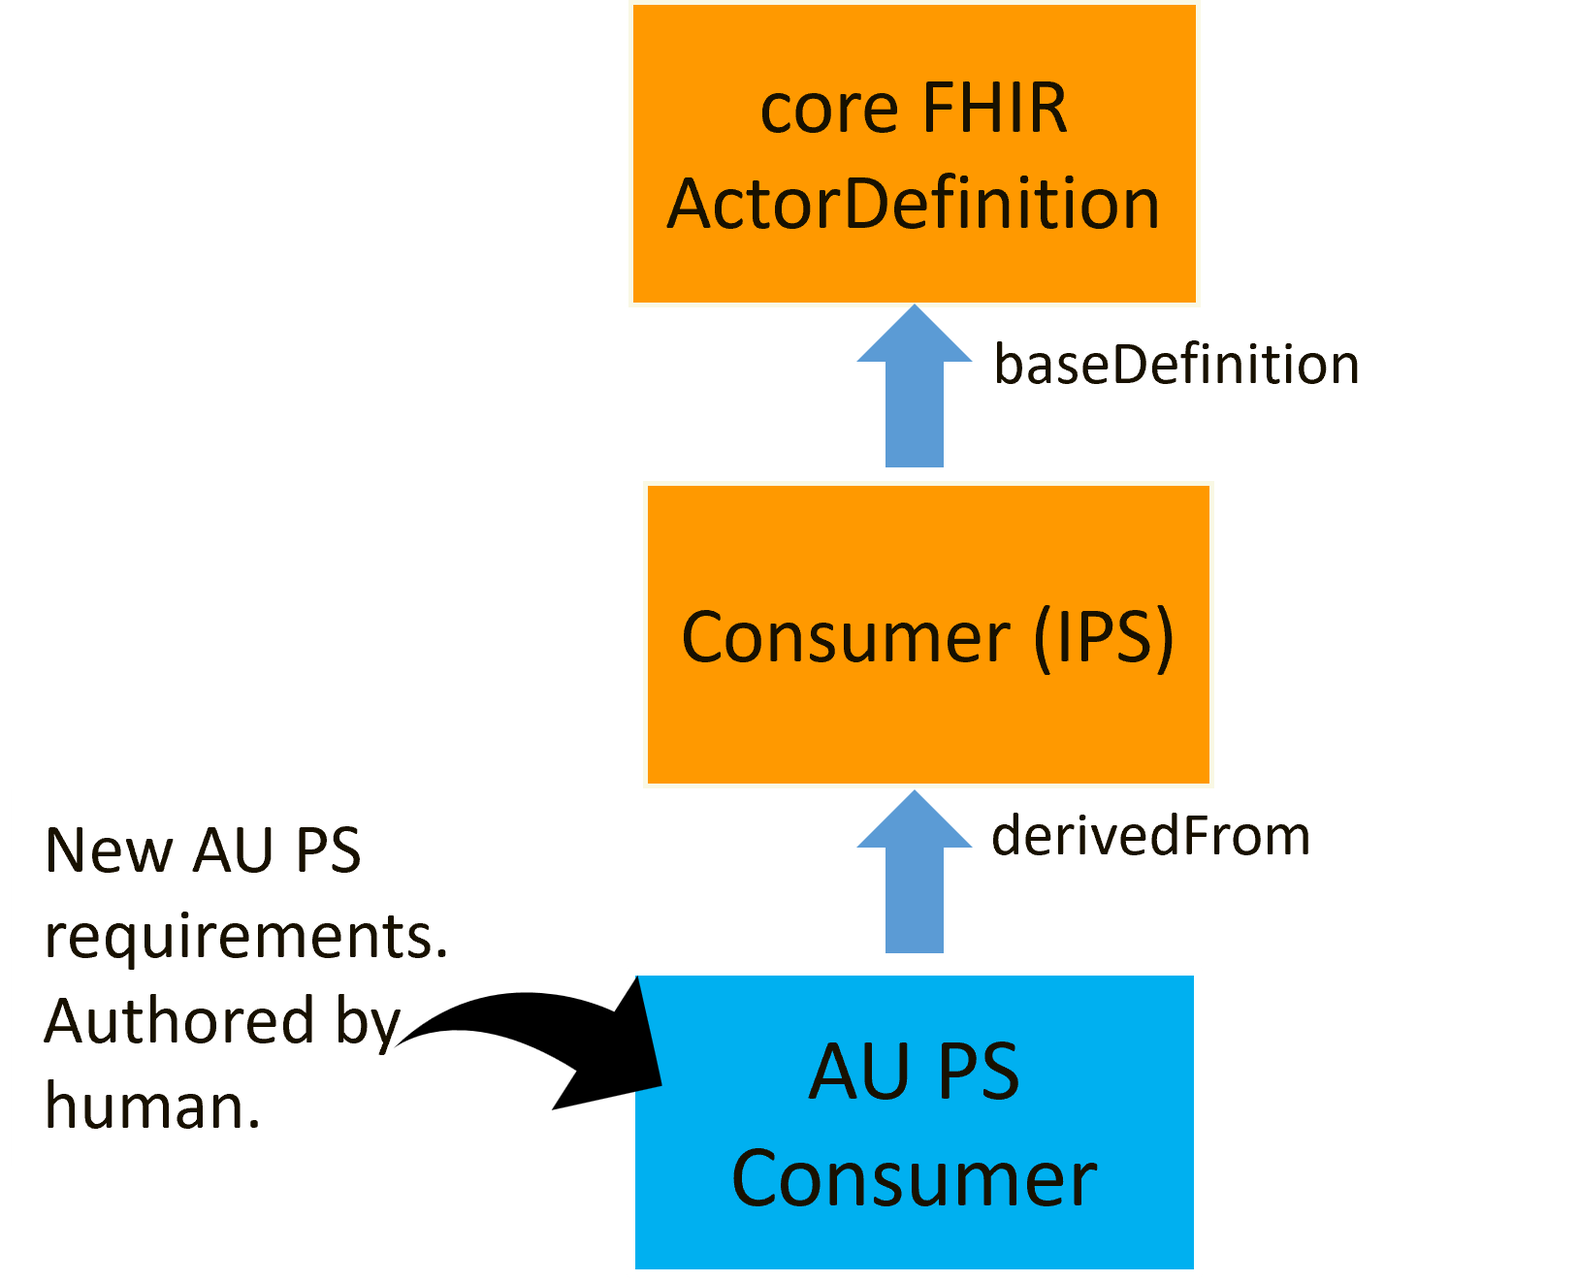
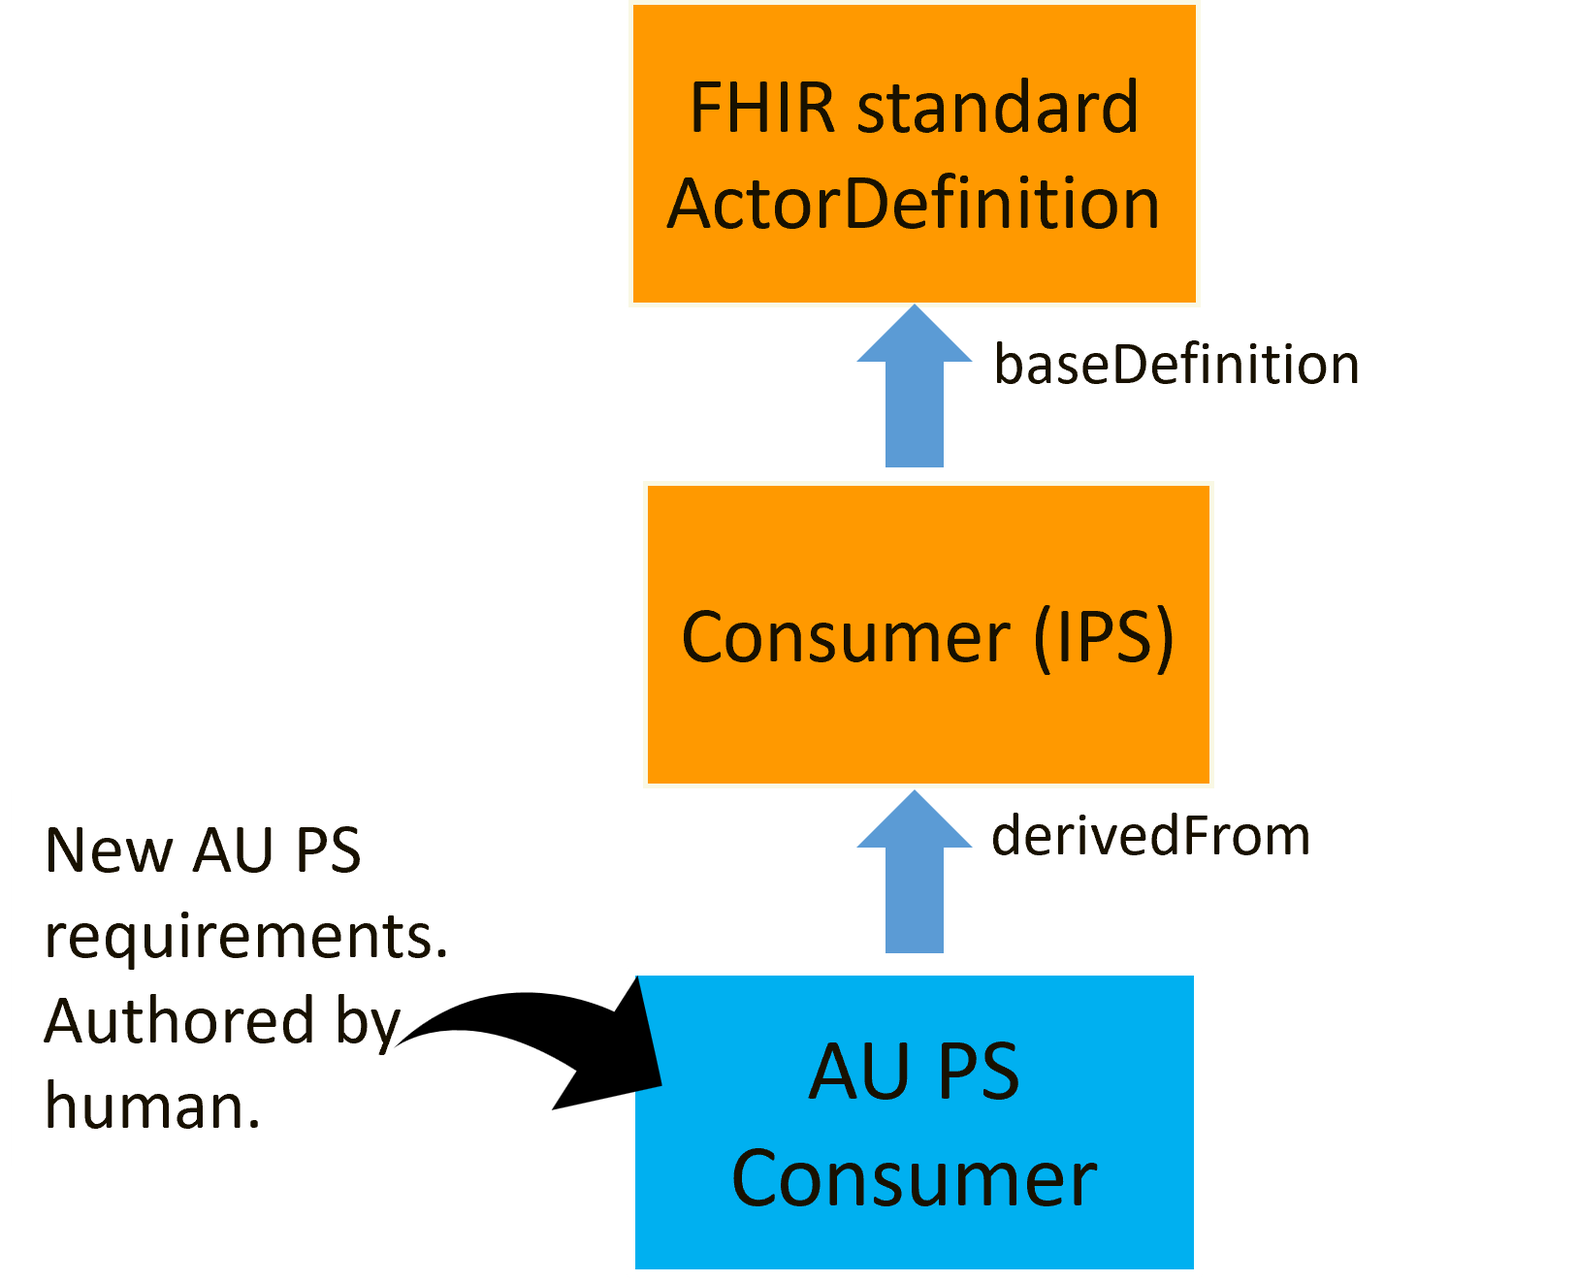
Editorial AU PS IG Approach changes (#99)

Changed region(s): [[0.4302, 0.062, 0.7376, 0.1241]]

diff --git a/input/pagecontent/general-guidance.md b/input/pagecontent/general-guidance.md
@@ -1,12 +1,12 @@
 {::options toc_levels="1..4"/}
 
 ### Approach of this Implementation Guide
-AU Patient Summary (AU PS) is provided to support the use of patient summaries in HL7® FHIR®© in an Australian context. AU PS is based on [IPS](https://hl7.org/fhir/uv/ips/STU2/index.html) and [AU Core](https://build.fhir.org/ig/hl7au/au-fhir-core), setting the minimum conformance expectations for implementing AU PS documents in systems.
+AU Patient Summary (AU PS) is provided to support the use of patient summaries in HL7 FHIR in an Australian context. AU PS is based on [IPS](https://hl7.org/fhir/uv/ips/STU2/index.html) and [AU Core](https://build.fhir.org/ig/hl7au/au-fhir-core), setting the minimum conformance expectations for implementing AU PS documents in systems.
 
 AU PS, by design:
 * ensures compliance with AU Core and IPS
 * includes additional requirements agreed as necessary to support patient summaries in an Australian healthcare context (see [the AU PS](the-aups.html))
-* supports varied stakeholder needs in the use of AU PS artefacts (e.g. government policy, implementers, tooling developers, testers, IG authors/maintainers etc.)
+* supports varied stakeholder needs in the use of AU PS artefacts (e.g. policy makers, implementers, tooling developers, testers, IG authors/maintainers etc.)
 
 The approach to describing the 'minimum' in AU PS means modelling in such a way that 'at least' what is to be supported is defined without limiting meaningful options for business rules and different clinical workflows. AU PS artefacts are therefore modelled as open templates allowing for additional content including elements, extensions, resources, search parameters, operations, and terminology whilst ensuring the minimum requirements are met.
 
@@ -18,10 +18,10 @@ Australian realm IGs and implementers are expected to [comply with AU Base and A
 
 #### Scope of AU PS FHIR Artefacts
 AU PS profiles:
-* [Resources](general-guidance.html#resource-profile-approach) to define minimum support expectations for use in the Australian healthcare context
-* [Actors](general-guidance.html#actor-approach) to define systems that play a role in consuming and producing AU PS documents
+* [Resources](general-guidance.html#resource-profile-approach) to define minimum support expectations for use in the Australian healthcare context.
+* [Actors](general-guidance.html#actor-approach) to define systems that play a role in consuming and producing AU PS documents.
 
-In this release, AU PS does not define new extensions, search parameters, operations or [terminology](general-guidance.html#terminology-approach). AU PS does not include capability statements (the minimum capabilities (behaviours) to be supported for AU PS actors). Future releases of this IG may include capability statements, extensions, search parameters, operations, or terminology.
+In this release, AU PS does not define new extensions, [terminology](general-guidance.html#terminology-approach), search parameters, operations, or capability statements. Future releases of this IG may include these artefacts.
 
 #### Extension Approach
 AU PS does not define new extensions. All extensions included in AU PS are defined in the [FHIR Extensions Pack](https://hl7.org/fhir/extensions/) or [AU Base](http://build.fhir.org/ig/hl7au/au-fhir-base/profiles-and-extensions.html#extensions). A limited set of extensions are indicated as _Must Support_ in AU PS resource profiles; these supported extensions have been inherited from the underlying AU Core profile.
@@ -31,14 +31,14 @@ It is anticipated that extension profiles may be included in future releases of 
 #### Terminology Approach
 AU PS does not define new terminology FHIR artefacts (e.g. value sets or code systems). Terminology supported in AU PS are published in [AU Base](https://build.fhir.org/ig/hl7au/au-fhir-base/terminology.html), the FHIR standard, [HL7 Terminology (THO)](https://terminology.hl7.org/), or the [National Clinical Terminology Service (NCTS)](https://www.healthterminologies.gov.au/). 
 
-As part of profiling, AU PS inherits the AU Core localised terminology and indicates support expectations for an AU PS actor using _Must Support_ and Obligations. For more information on the terminology modelling inherited from AU Core see the guidance in AU Core [Use of Terminology Bindings](https://build.fhir.org/ig/hl7au/au-fhir-core/general-guidance.html#use-of-terminology-bindings). 
+As part of profiling, AU PS inherits the AU Core localised terminology and indicates support expectations for an AU PS actor using _Must Support_ and obligations. For more information on the terminology modelling inherited from AU Core see the guidance in AU Core [Use of Terminology Bindings](https://build.fhir.org/ig/hl7au/au-fhir-core/general-guidance.html#use-of-terminology-bindings). 
 
-In terms of support in AU PS profiles, a coded element can have support defined for one or many value sets. Coded elements that define support for more than one value set include them in a profile by slicing the [Coding](http://hl7.org/fhir/R4/datatypes.html#Coding) part of the element and placing *Must Support* on each value set slice. These value set slices are not intended to prevent systems from supplying only a text value. Most coded *Must Support* elements in AU PS profiles define support for one value set, which is bound to the supported element and no value set slice is present.
+In terms of support in AU PS profiles, a coded element can have support defined for one or more value sets. Coded elements that define support for more than one value set include them in a profile by slicing the [Coding](http://hl7.org/fhir/R4/datatypes.html#Coding) part of the element and placing *Must Support* on each value set slice. These value set slices are not intended to prevent systems from supplying only a text value. Most coded *Must Support* elements in AU PS profiles define support for one value set, which is bound to the supported element and no value set slice is present.
 
 For:
-* a list of the terminologies supported in AU PS, refer to the [Terminology](terminology.html) page. 
-* a description of the localisation of terminology compared to the IPS, refer to [Terminology Localisation](the-aups.html#terminology-localisation).
-* guidance on selection of terminology in HL7 AU IGs, refer to the AU Base guidance on [Terminology Selection](https://build.fhir.org/ig/hl7au/au-fhir-base/generalguidance.html#terminology-selection).
+* a description of the localisation of terminology in AU PS, refer to [Terminology Localisation](the-aups.html#terminology-localisation)
+* a list of the terminologies supported in AU PS, refer to the [Terminology](terminology.html) page
+* guidance on selection of terminology in HL7 AU IGs, refer to the AU Base guidance on [Terminology Selection](https://build.fhir.org/ig/hl7au/au-fhir-base/generalguidance.html#terminology-selection)
 
 #### Resource Profile Approach
 
@@ -50,14 +50,14 @@ For:
    - Data type sub-elements and profiles
    - Data type choices and references
    - Invariants
-   - Must Support
+   - *Must Support*
    - Terminology bindings
 * AU PS profiles **SHALL** validate reference elements against AU PS profiles (where available), otherwise the AU Core profile where available, otherwise the IPS profile where available, otherwise the AU Base profile where available
 * In AU PS profiles, terminology bindings inherited from the underlying AU Core profile are preferenced over terminology bindings in IPS profiles:
    - where an element has a [required](https://hl7.org/fhir/R4/terminologies.html#required) binding, the element **SHALL** apply the intersection of both value sets (AU Core and IPS)
-   - where an element has a lesser binding strength ([extensible](https://hl7.org/fhir/R4/terminologies.html#extensible), [preferred](https://hl7.org/fhir/R4/terminologies.html#preferred), [example](https://hl7.org/fhir/R4/terminologies.html#example)), use the AU Core value set and binding strength (where AU Core bindings strength is equal or stronger) or use the IPS value set where the binding strength is stronger
+   - where an element has a lesser binding strength ([extensible](https://hl7.org/fhir/R4/terminologies.html#extensible), [preferred](https://hl7.org/fhir/R4/terminologies.html#preferred), [example](https://hl7.org/fhir/R4/terminologies.html#example)), use the AU Core value set and binding strength (where the AU Core binding strength is equal or stronger than the IPS binding strength) or use the IPS value set where the IPS binding strength is stronger than the AU Core binding strength
 * An AU PS profile **SHALL** inherit the IPS profile obligations and **MAY** strengthen the IPS profile obligations (using a specialisation of the defined obligation) or add an additional obligation (e.g. SHOULD:persist), as required for the Australian context. A weaker obligation **SHALL NOT** be specified.
-* Where one or both AU Core and IPS profiles do not exist, **SHALL** ensure resources validate against:
+* Where one or both AU Core and IPS profiles do not exist, AU PS profiles **SHALL** ensure resources validate against:
    * IPS profile (where only the IPS profile exists)
    * AU Core profile (where only the AU Core profile exists)
    * AU Base profile (where available and neither the IPS or AU Core profile exists)
@@ -87,7 +87,7 @@ When modelling AU PS resource profiles, they:
 *Figure 1: AU PS resource profile modelling*<a name="profilingapproach">
 <br/><br/>
 
-This modelling applies the typical HL7 AU profile modelling approach to use derivation to manage compliance across the HL7 AU profile stack and allow for the additional of IPS and AU PS project requirements, see the example in the figure below.
+This modelling applies the typical HL7 AU profiling approach that uses derivation to manage compliance across the HL7 AU profile stack and allows for the addition of IPS and AU PS project requirements, see the example in the figure below.
 
 <div> 
     <img src="patient-profilingapproach.png" alt="AU PS Patient current profiling approach" style="width:40%"/>
@@ -95,9 +95,9 @@ This modelling applies the typical HL7 AU profile modelling approach to use deri
 *Figure 2: Profiling approach for AU PS Patient profile*<a name="aupspatientprofilingapproach">
 <br/><br/>
 
-Due to this modelling, the differential view in an AU PS profile shows the patient summary requirements that are additional to AU Core. In some profiles (e.g. [AU PS Organization](StructureDefinition-au-ps-organization.html)), the only additional requirements are the obligations for AU PS actors.
+Due to this modelling, the "Differential Table" in an AU PS profile shows the patient summary requirements that are additional to AU Core. In some profiles (e.g. [AU PS Organization](StructureDefinition-au-ps-organization.html)), the only additional requirements are the obligations for AU PS actors.
 
-The AU PS Bundle profile is not based on AU Core or AU Base as no Bundle profile exists in either IG. The approach to profiling for AU PS Bundle is to:
+The [AU PS Bundle](StructureDefinition-au-ps-bundle.html) profile is not based on AU Core or AU Base as no Bundle profile exists in either IG. The approach to profiling for AU PS Bundle is to:
 * derive from the FHIR Bundle resource
 * apply requirements inherited from IPS (in accordance with the [AU PS Profile Design Principles](general-guidance.html#au-ps-profile-design-principles)) 
 * apply additional requirements agreed by the AU PS project
@@ -109,7 +109,7 @@ The AU PS Bundle profile is not based on AU Core or AU Base as no Bundle profile
 *Figure 3: Profiling approach for AU PS Bundle profile*
 <br/><br/>
 
-This approach to AU PS Bundle profiling (deriving from the FHIR Bundle resource and not Bundle (IPS) profile) has been taken as at this time there is a tooling limitation that prevents meeting both of the below conditions:
+This approach to [AU PS Bundle](StructureDefinition-au-ps-bundle.html) profiling (deriving from the FHIR Bundle resource and not [Bundle (IPS)](https://build.fhir.org/ig/HL7/fhir-ips/en/StructureDefinition-Bundle-uv-ips.html) profile) has been taken as at the time of publication of this release there is a tooling limitation that prevents meeting both of the below conditions:
 * derivation from Bundle (IPS)
 * changing reference targets to AU PS profiles (as AU PS profiles derive from AU Core and not IPS they cannot be easily assessed as meeting IPS rules by the tooling)
 
@@ -120,7 +120,7 @@ Additional detail on profiling is:
 ###### Use of Must Support and Obligations
 _[Must Support](general-requirements.html#must-support-and-obligation)_ is used to indicate the elements and extensions that form the minimum requirements of AU PS. Labelling an element _Must Support_ means that systems that produce or consume resources are to provide support for the element in some meaningful way. The FHIR standard does not define exactly what 'meaningful' support for an element means, but indicates that a profile needs to make clear exactly what kind of support is required when an element is labelled as _Must Support_.
 
-The set of _Must Support_ elements in AU PS profiles is inherited from AU Core and IPS profiles (i.e. the union of IPS and AU Core elements labelled *Must Support*). In addition, the mandatory elements in AU PS Bundle, are labelled with *Must Support* (e.g. `Bundle.type`). This is applied as the convention in this guide is to mark all mandatory elements as *Must Support* unless they are nested under an optional element.
+The set of _Must Support_ elements in AU PS profiles is inherited from AU Core and IPS profiles (i.e. the union of IPS and AU Core elements labelled *Must Support*). In addition, the mandatory elements in AU PS Bundle are labelled with *Must Support* (e.g. `Bundle.type`). This is applied as the convention in this guide is to mark all mandatory elements as *Must Support* unless they are nested under an optional element.
 
 The meaning of _Must Support_ in AU PS is defined in:
 * narrative in the IG (e.g. [Missing Data](general-requirements.html#missing-data) requirements)
@@ -133,21 +133,21 @@ See [Must Support and Obligation](general-requirements.html#must-support-and-obl
 
 When managing [profile complexity and requirements](relationship.html) in the [national and international context for AU PS](the-aups.html#the-au-ps-au-patient-summary), the following mechanisms are available:
 1. [Derived from Profiles (derive)](https://build.fhir.org/structuredefinition-definitions.html#StructureDefinition.baseDefinition)
-1. Informal alignment (humans authoring of rules in a profile)
+1. Informal alignment (human authoring of rules in a profile)
 1. [Complies With Profile (compliesWithProfile)](https://hl7.org/fhir/extensions/StructureDefinition-structuredefinition-compliesWithProfile.html)
 1. [Dependent Profiles (imposeProfile)](https://hl7.org/fhir/extensions/StructureDefinition-structuredefinition-imposeProfile.html)
 
-These mechanisms offer differing capabilities and advantages. Typically HL7 AU profiles use derivation to manage compliance within HL7 AU inheritance (e.g. [AU PS Patient Profiling Approach](general-guidance.html#aupspatientprofilingapproach)). However, as AU PS will comply to both HL7 AU (AU Core) and HL7 Universal Realm (IPS), additional mechanism(s) on top of derivation from the underlying HL7 AU profile stack are required. At this time additional requirements are included in AU PS profiles via informal alignment (i.e. human authoring, human checking) and a [compliesWithProfile](https://hl7.org/fhir/extensions/StructureDefinition-structuredefinition-compliesWithProfile.html) declaration is made.
+These mechanisms offer differing capabilities and advantages. Typically HL7 AU profiles use derivation to manage compliance within HL7 AU inheritance (e.g. [AU PS Patient Profiling Approach](general-guidance.html#aupspatientprofilingapproach)). However, as AU PS will comply with both HL7 AU (AU Core) and HL7 Universal Realm (IPS), additional mechanism(s) on top of derivation from the underlying HL7 AU profile stack are required. At this time additional requirements are included in AU PS profiles via informal alignment (i.e. human authoring, human checking) and a [compliesWithProfile](https://hl7.org/fhir/extensions/StructureDefinition-structuredefinition-compliesWithProfile.html) declaration is made.
 
 <div class="stu-note" markdown="1">
 For a human, the main differences with use of [imposeProfile](https://hl7.org/fhir/extensions/StructureDefinition-structuredefinition-imposeProfile.html) are:
 - does not rely on humans to maintain compliance rules from the target impose profile
-- does not visually show a human reader of the source profile rules from the target impose profile, i.e. a human reader must view and understand both profiles to understand the complete set of rules
-- where two or more profiles offer optional alternatives (e.g. differing preferred bindings or data type choices) does not make clear which alternative is preferenced
+- does not visually show a human reader the rules from the target imposed profile in the source profile, i.e. a human reader must view and understand both profiles to understand the complete set of rules
+- where two or more profiles offer optional alternatives (e.g. differing preferred bindings or data type choices), it does not make clear which alternative is preferenced
 
 To support reduction of maintenance efforts in AU PS, it is under consideration that all AU PS profiles derive from AU Core, where available, and use imposeProfile to apply IPS rules. That would mean that either:
 * a number of IPS-imposed requirements including cardinality, terminology, and flagging of <i>Must Support</i> would not be directly visible in the formal views within this guide, or
-* if the additional IPS constraints were included directly in the AU PS profile + use imposeProfile, those constraints would be repeated from a validation sense and could be an additional validation burden.
+* if the additional IPS constraints were included directly in the AU PS profile + use imposeProfile, those constraints would be duplicated from a validation sense and could be an additional validation burden.
 
 Users of this implementation guide are encouraged to provide their feedback about the potential use of imposeProfile.
 </div><!-- stu-note -->
@@ -156,7 +156,7 @@ Users of this implementation guide are encouraged to provide their feedback abou
 AU PS actors are defined to describe the specific sets of functionality supported by systems that play a role in producing or consuming AU PS documents. Each actor is defined by:
 * an actor definition that includes reference to support expectations (narrative conformance requirements)
   * the AU PS actor derives from the corresponding IPS actor
-* resource profiles that define support expectations for actors using _Must Support_ and Obligations 
+* resource profiles that define support expectations for actors using _Must Support_ and obligations 
 
 <div> 
     <img src="actor-derivationapproach.png" alt="Derivation approach for AU PS Consumer actor" style="width:30%"/>
@@ -170,9 +170,9 @@ In this release, AU PS does not include capability statements that describe the 
  AU PS actors are designed to ensure compliance with IPS and support the [use of patient summaries in Australia](the-aups.html#aupintendedto). AU PS actor design principles are as follows:
 * AU PS actors:
   * **SHALL** inherit the narrative conformance requirements from AU Core and IPS including Missing Data, Empty Sections, Known Absence of Data
-  * **SHALL** inherit IPS Document requirements (see [AU PS Resource Profile Approach](general-guidance.html#resource-profile-approach))
+  * **SHALL** inherit IPS document requirements (see [AU PS Resource Profile Approach](general-guidance.html#resource-profile-approach))
   * **SHALL** inherit AU Core resource profile requirements (see [AU PS Resource Profile Approach](general-guidance.html#resource-profile-approach))
-  * **SHALL** inherit _Must Support_ (the union of IPS and AU Core elements labelled *Must Support*) and IPS Obligation requirements
+  * **SHALL** inherit _Must Support_ (the union of IPS and AU Core elements labelled *Must Support*) and IPS obligation requirements
   * **MAY** strengthen inherited requirements as required for the Australian context. A weaker requirement **SHALL NOT** be specified.
   * **MAY** apply additional requirements agreed by the AU PS project
 

diff --git a/input/pagecontent/general-requirements.md b/input/pagecontent/general-requirements.md
@@ -435,7 +435,7 @@ Profile |Must Support Choice Elements
 
 
 ##### Must Support - Multiple Terminologies
-A coded element can have support defined for one or many value sets. Coded elements that define support for more than one value set include them in a profile by slicing the [Coding](http://hl7.org/fhir/R4/datatypes.html#Coding) part of the element and placing *Must Support* on each value set slice. These value set slices are not intended to prevent systems from supplying only a text value.
+A coded element can have support defined for one or more value sets. Coded elements that define support for more than one value set include them in a profile by slicing the [Coding](http://hl7.org/fhir/R4/datatypes.html#Coding) part of the element and placing *Must Support* on each value set slice. These value set slices are not intended to prevent systems from supplying only a text value.
 
 Most coded *Must Support* elements in AU PS define support for one value set, which is bound to the element and no value set slice is present. For these elements, the section on [Must Support - Complex Elements](general-requirements.html#must-support---complex-elements) and the terminology binding applies.
 
